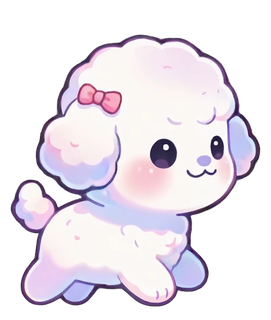
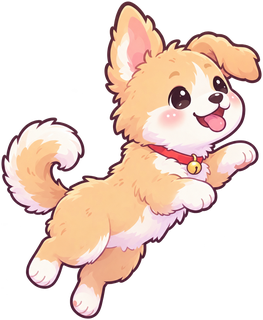
v0.7.80 방울이를 시고르자브종으로 — 둥둥 떠오르는 모습(OpenAI gpt-image-2), 그림 뽑기 도구 tools/gen_sprite.py

diff --git a/index.html b/index.html
@@ -1073,7 +1073,7 @@
   const elTitle = document.getElementById("overTitle");
   const coinNote = document.getElementById("coinNote");
 
-  const GAME_VERSION = "v0.7.79";
+  const GAME_VERSION = "v0.7.80";
   /* 제작사 스플래시(bamhobak friends 로고) — 2026-09-20 끔. 다시 켜려면 true */
   const SPLASH_USE = false;   // 코드를 고칠 때마다 뒤 두 자리를 올린다
   document.getElementById("ver").textContent = GAME_VERSION;
@@ -1558,9 +1558,14 @@
      쉬었음 청년과 비슷해지도록 잡았다: 높이 = 판정지름 × 1.30 (피격 1.13). */
   /* bcx·bcy·brr = 비누방울의 중심과 반지름. 몸이 실제로 차지한 칸을 재서 넣었다
      (bcx 는 그림 가로, bcy·brr 은 그림 세로에 대한 비율). */
+  /* 2026-09-22 방울이가 시고르자브종(시골 똥개)으로 바뀌었다 — OpenAI(gpt-image-2)로 뽑은 그림
+     (tools/gen_sprite.py). 하늘로 올라가는 게임이라 걷지 않고 비스듬히 떠오르는 자세다.
+     몸이 대각선이라 빈 모서리가 많아 같은 높이면 푸들보다 작아 보여서, 보이는 넓이를 맞춰
+     높이를 판정지름 × 1.40 으로 잡았다 (푸들 1.30). 판정원은 다른 직업처럼 머리.
+     float — 그림자는 땅에 두고 몸만 둥둥 오르내린다 (drawPlayer). */
   const SPR_BANGUL = {
-    right: { img: null, aspect: 0.847, head: 0.380, cx: 0.660, cy: 0.400, adj: 0.4940,
-             bcx: 0.500, bcy: 0.500, brr: 0.500 },
+    right: { img: null, aspect: 0.822, head: 0.330, cx: 0.690, cy: 0.300, adj: 0.4620,
+             bcx: 0.520, bcy: 0.520, brr: 0.510, float: true },
     hurt:  { img: null, aspect: 0.959, head: 0.480, cx: 0.500, cy: 0.340, adj: 0.5424 }
   };
   // 방울이는 제 우주복이 따로 있다 (다른 직업은 공용 우주복을 입는다)
@@ -1714,9 +1719,13 @@
     pp.src = "assets/powerp2_" + key + ".png";
   }
   for (const key of ["right", "hurt"]) {
-    const bg = new Image();
-    bg.onload = () => { SPR_BANGUL[key].img = bg; };
-    bg.src = "assets/bangul_" + key + ".png";
+    /* 방울이(땅)는 새 그림이 아직 떠오르는 모습 하나뿐이다. 맞은 그림은 옛 푸들이라
+       받지 않는다 — 비워 두면 맞은 동안에도 같은 그림을 쓴다 (빨간 번쩍임·흔들림은 그대로). */
+    if (key === "right") {
+      const bg = new Image();
+      bg.onload = () => { SPR_BANGUL[key].img = bg; };
+      bg.src = "assets/bangul_" + key + ".png";
+    }
     const bs = new Image();
     bs.onload = () => { SPR_BANGUL_SPACE[key].img = bs; };
     bs.src = "assets/bangul_space_" + key + ".png";
@@ -1750,7 +1759,7 @@
     t.src = "assets/bg/title.webp";
     setTimeout(() => { if (!titleArt) titleGaveUp = true; }, 2000);
   }
-  loadRunFrames(SPR_BANGUL, "bangul_run");
+  // 땅의 방울이는 걷지 않고 떠오른다 — 옛 푸들의 달리는 16장(bangul_run*)은 쓰지 않는다
   loadRunFrames(SPR_BANGUL_SPACE, "bangul_space_run");
 
   // 도와줘 정연핑 — 아래에서 위로 날아가며 지나간 자리의 똥을 부순다
@@ -10211,6 +10220,13 @@
       ctx.ellipse(0, FOOT - 4 + (groundY - player.y), sw * .3 * (1 - air * .34), 7 * (1 - air * .34), 0, 0, 6.283);
       ctx.fill();
       ctx.restore();
+
+      /* 떠 있는 그림(방울이) — 걷지 않고 둥둥 떠오른다. 그림자는 땅에 둔 채 몸만
+         천천히 오르내리고 살짝 흔들린다. 판정원은 움직이지 않는다 (±4px 라 피하는 감각은 그대로). */
+      if (spr.float && !hurting) {
+        ctx.translate(0, Math.sin(now / 310) * 4);
+        ctx.rotate(Math.sin(now / 540) * 0.05);
+      }
 
       /* 풀소유로 바뀌는 순간 — 몸이 부풀고, 뒤에서 흰빛이 터지고,
          몸 자체가 한 번 하얗게 날아간다. */

diff --git a/tools/gen_sprite.py b/tools/gen_sprite.py
@@ -1,0 +1,88 @@
+# -*- coding: utf-8 -*-
+"""
+OpenAI 로 캐릭터 그림을 뽑는 도구.
+
+  python tools/gen_sprite.py <이름> "<프롬프트>" [--ref 참고그림 ...] [--n 4] [--model gpt-image-2]
+
+- 키는 환경변수 OPENAI_API_KEY 에서 읽는다 (파일에 적지 않는다).
+- --ref 를 주면 /images/edits 로 보내 참고 그림의 화풍을 따라가게 한다. 없으면 /images/generations.
+- 배경을 투명하게 받아 테두리 여백을 잘라 내고, 높이 320px 로 맞춘다 (게임 그림 규격).
+- 결과는 assets/_gen/<이름>_<번호>.png 로 남는다. 고른 것만 assets/ 로 옮겨 쓴다.
+  (_gen 은 배포하지 않는다 — .gitignore)
+"""
+import argparse, base64, io, os, pathlib, sys, time
+import requests
+from PIL import Image
+
+ROOT = pathlib.Path(__file__).resolve().parent.parent
+OUT = ROOT / "assets" / "_gen"
+API = "https://api.openai.com/v1/images"
+TARGET_H = 320          # 게임 그림 높이 (bangul_right.png 와 같게)
+
+
+def trim(im, pad=4):
+    """알파가 거의 없는 테두리를 잘라 낸다 (반투명 먼지까지 치우려고 문턱을 둔다)."""
+    a = im.getchannel("A").point(lambda v: 255 if v > 12 else 0)
+    box = a.getbbox()
+    if not box:
+        return im
+    l, t, r, b = box
+    return im.crop((max(0, l - pad), max(0, t - pad), min(im.width, r + pad), min(im.height, b + pad)))
+
+
+def fit_h(im, h=TARGET_H):
+    w = round(im.width * h / im.height)
+    return im.resize((w, h), Image.LANCZOS)
+
+
+def call(args):
+    key = os.environ.get("OPENAI_API_KEY")
+    if not key:
+        sys.exit("OPENAI_API_KEY 가 없습니다")
+    hdr = {"Authorization": "Bearer " + key}
+    common = {"model": args.model, "prompt": args.prompt, "n": str(args.n),
+              "size": args.size, "quality": args.quality,
+              "background": "transparent", "output_format": "png"}
+    if args.ref:
+        files = [("image[]", (pathlib.Path(p).name, open(p, "rb"), "image/png")) for p in args.ref]
+        r = requests.post(API + "/edits", headers=hdr, data=common, files=files, timeout=600)
+    else:
+        body = dict(common); body["n"] = args.n
+        r = requests.post(API + "/generations", headers=hdr, json=body, timeout=600)
+    if r.status_code != 200:
+        sys.exit("OpenAI 오류 %d: %s" % (r.status_code, r.text[:800]))
+    return r.json()
+
+
+def main():
+    ap = argparse.ArgumentParser()
+    ap.add_argument("name")
+    ap.add_argument("prompt")
+    ap.add_argument("--ref", nargs="*", default=[])
+    ap.add_argument("--n", type=int, default=4)
+    ap.add_argument("--model", default="gpt-image-2")
+    ap.add_argument("--size", default="1024x1024")
+    ap.add_argument("--quality", default="high")
+    args = ap.parse_args()
+
+    OUT.mkdir(parents=True, exist_ok=True)
+    t0 = time.time()
+    d = call(args)
+    saved = []
+    for i, item in enumerate(d.get("data", []), 1):
+        raw = Image.open(io.BytesIO(base64.b64decode(item["b64_json"]))).convert("RGBA")
+        (OUT / ("%s_%d_raw.png" % (args.name, i))).write_bytes(base64.b64decode(item["b64_json"]))
+        im = fit_h(trim(raw))
+        p = OUT / ("%s_%d.png" % (args.name, i))
+        im.save(p, optimize=True)
+        saved.append((p, im.size))
+    print("%.0f초 · %s · %d장" % (time.time() - t0, args.model, len(saved)))
+    for p, sz in saved:
+        print("  %s  %dx%d" % (p.relative_to(ROOT), sz[0], sz[1]))
+    u = d.get("usage")
+    if u:
+        print("  usage:", u)
+
+
+if __name__ == "__main__":
+    main()

diff --git a/README.md b/README.md
@@ -5,7 +5,7 @@
 👉 **플레이: https://bamhobak.github.io/ddongpi/**
 
 > 이 문서는 `index.html` 의 실제 값을 옮겨 적은 것입니다. 숫자를 고쳤으면 여기도 같이 고쳐 주세요.
-> 마지막으로 맞춰 본 판: **v0.7.79**
+> 마지막으로 맞춰 본 판: **v0.7.80**
 
 ## 조작
 - 📱 모바일: 화면 아무 데나 손가락을 대고 좌우로 **끌기** (누른 자리가 기준점 — 순간이동하지 않음)
@@ -276,6 +276,12 @@
 
 ### 🫧 방울이
 
+**시고르자브종(시골 똥개)** — 누런 털에 흰 가슴, 한쪽 귀만 선, 말린 꼬리, 빨간 목줄에 금방울.
+하늘로 올라가는 게임이라 **걷지 않고 둥둥 떠오르는 자세**이고, 게임 안에서는 그림자를 땅에 둔 채
+몸만 천천히 오르내리며 살짝 흔들립니다 (판정원은 그대로).
+(2026-09-22 흰 푸들에서 바뀜. 지금은 **땅 위 기본 그림만** 새것이고, 맞은 그림·우주복은 다음 차례 —
+맞은 동안에는 같은 그림을 쓰고, 오로라 지대(78초)부터는 아직 옛 푸들 우주복입니다.)
+
 목숨 막대 자리에 **오염도 막대**가 섭니다.
 
 - 맞을 때마다 오염도 **+25**, **100 이면 끝** (사실상 목숨 4개)
@@ -412,6 +418,22 @@
 💩 이모지 위에 표정 장식을 얹습니다 — 성난 눈썹 · 선글라스 · X 눈 · 발그레한 볼 ·
 식은땀 · 분노 마크 등이 무작위로 붙고, 일부는 기본 얼굴 그대로 나옵니다.
 
+## 그림 뽑기 (OpenAI)
+
+[`tools/gen_sprite.py`](tools/gen_sprite.py) — OpenAI 이미지 API(기본 `gpt-image-2`)로 캐릭터 그림을 뽑습니다.
+키는 환경변수 `OPENAI_API_KEY` 에서만 읽습니다 (파일에 적지 않음).
+
+```
+python tools/gen_sprite.py <이름> "<프롬프트>" --ref <화풍 참고 그림> ... [--n 4]
+```
+
+- `--ref` 로 지금 게임 그림을 넣으면 그 **화풍**(굵은 테두리·파스텔 명암·큰 머리)을 따라갑니다.
+  프롬프트에 "참고 그림은 화풍만, 캐릭터는 따라 하지 말 것"을 꼭 적어야 새 캐릭터가 나옵니다.
+- 배경을 투명하게 받아 여백을 자르고 **높이 320px** 로 맞춰 `assets/_gen/<이름>_<번호>.png` 에 남깁니다
+  (`_gen` 은 배포하지 않음). 고른 것만 `assets/` 로 옮기고, `index.html` 의 `SPR_*` 규격
+  (`aspect`·`head`·`cx`·`cy`·`adj`, 방울이는 비누방울 `bcx`·`bcy`·`brr` 까지)을 새 그림에 맞춰 잽니다.
+- 한 번에 4장 · 약 2.5분.
+
 ## 폴더 구성
 
 ```
@@ -421,6 +443,8 @@ icon-192.png    앱 아이콘
 icon-512.png
 README.md
 assets/         이미지·소리·배경음 (직업별 복장 · 우주복 · 펫 · 보스 · 지대 배경 · 효과음)
+assets/_gen/    OpenAI 로 뽑은 후보 그림 (배포 제외)
+tools/          그림 뽑기 도구 (gen_sprite.py)
 sql/            Supabase 에 실행하는 SQL (순위표 · 통계 · 관리자 기능)
 src/            원본 캐릭터 이미지 (배포 제외)
 ```
